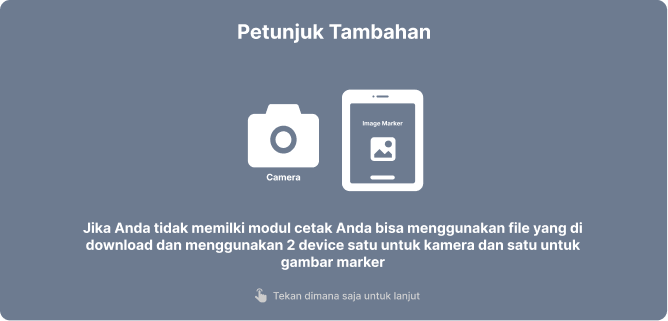
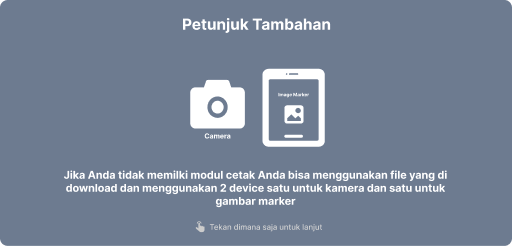
update ar unity optimize

diff --git a/unity/MVAR/Assets/Script/UnityAndroidReceiver.cs b/unity/MVAR/Assets/Script/UnityAndroidReceiver.cs
@@ -1,6 +1,7 @@
 using System;
 using UnityEngine;
 using UnityEngine.UI;
+using Vuforia;
 
 /// <summary>
 /// Pasang script ini pada GameObject di Scene Unity Vuforia Anda (misal pada ARReceiver atau GameManager).
@@ -40,9 +41,12 @@ public class UnityAndroidReceiver : MonoBehaviour
     private void Awake()
     {
         // 1. Optimasi performa dan frame rate kamera AR
-        Application.targetFrameRate = 60;
         QualitySettings.vSyncCount = 0;
+        Application.targetFrameRate = 60;
         Screen.sleepTimeout = SleepTimeout.NeverSleep;
+
+        // 2. Kaitkan optimasi kamera Vuforia berkecepatan tinggi saat Vuforia Engine dimulai
+        VuforiaApplication.Instance.OnVuforiaStarted += OnVuforiaStarted;
 
         if (Instance == null)
         {
@@ -58,6 +62,35 @@ public class UnityAndroidReceiver : MonoBehaviour
         {
             backButton.onClick.RemoveAllListeners();
             backButton.onClick.AddListener(BackToFlutter);
+        }
+    }
+
+    private void OnDestroy()
+    {
+        if (VuforiaApplication.Instance != null)
+        {
+            VuforiaApplication.Instance.OnVuforiaStarted -= OnVuforiaStarted;
+        }
+    }
+
+    /// <summary>
+    /// Mengunci kamera ke mode performa tinggi (60 FPS sensor, latensi minimal)
+    /// </summary>
+    private void OnVuforiaStarted()
+    {
+        try
+        {
+            // Meminta sensor kamera bekerja pada FPS tertinggi dan buffer delay terendah
+            VuforiaBehaviour.Instance.CameraDevice.SetCameraMode(CameraMode.MODE_OPTIMIZE_SPEED);
+
+            // Menjaga continuous autofocus aktif agar tidak terjadi shutter hunting delay
+            VuforiaBehaviour.Instance.CameraDevice.SetFocusMode(FocusMode.FOCUS_MODE_CONTINUOUSAUTO);
+
+            Debug.Log("[Vuforia-Receiver] Berhasil mengunci CameraMode: MODE_OPTIMIZE_SPEED & FOCUS_MODE_CONTINUOUSAUTO");
+        }
+        catch (Exception ex)
+        {
+            Debug.LogWarning("[Vuforia-Receiver] Gagal mengatur CameraMode: " + ex.Message);
         }
     }
 
